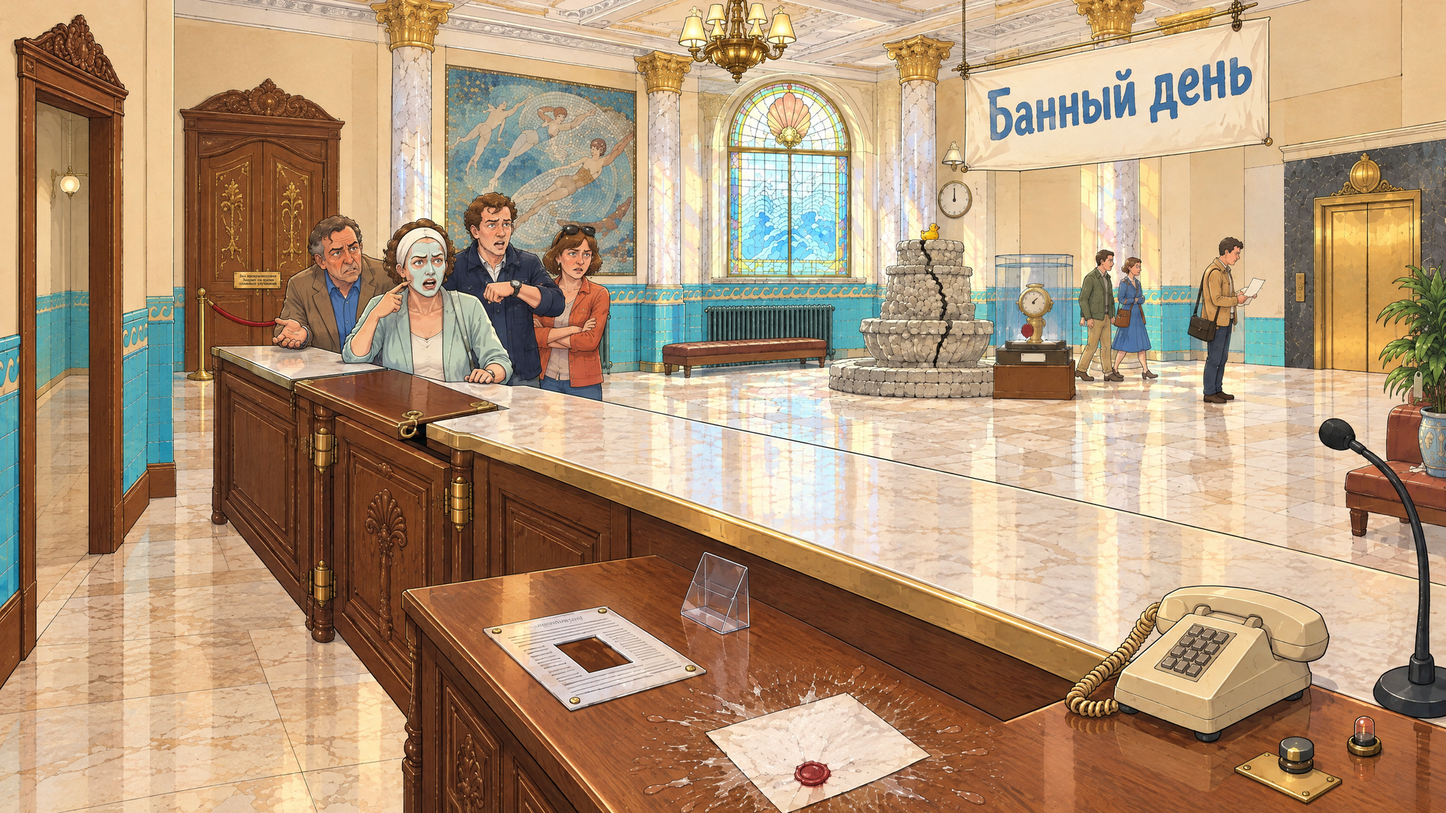
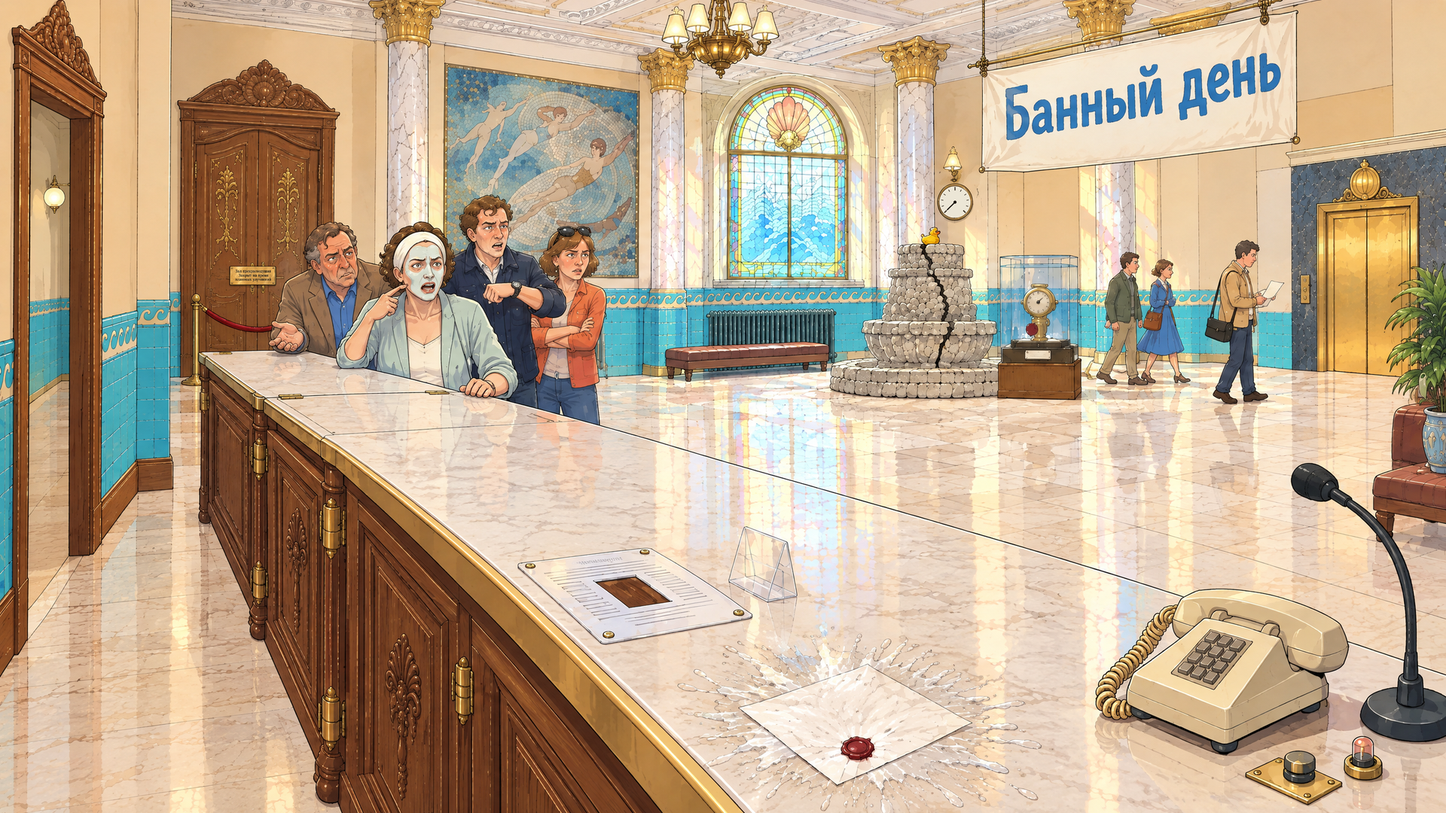
W2 с нуля: доска — вырезанный кусок столешницы (q4); табличка врезана, циферблат индикатора очищен от цифр; спека §2.2 — описание доски словами автора
Claude-Session: https://claude.ai/code/session_01Bbq6Feu1G5NepL2mZVzLSv

diff --git a/docs/BJ3_ASSET_SPEC.md b/docs/BJ3_ASSET_SPEC.md
@@ -146,7 +146,7 @@
 
 **Композиция.** Справа и по центру внизу — внутренняя сторона стойки: столешница, телефон, мокрый лучистый круг на столешнице и на нём лист уведомления с мокрой лучистой пломбой (без папки), пустая подставка для карты, регламент, привинченный к стойке (ламинат, прямоугольное окно вырезано — сквозь него видно дерево стойки), кнопка каскада с чистой табличкой и маленькой лампой (не горит), микрофон громкой связи на «гусиной шее», фасады двух ящиков без ручек (верхний — нажимной; нижний). За стойкой — вестибюль: пол «под мрамор», толпа гостей (обычная людность, живая и в разных направлениях — замечание автора 07.10.2026: «все спиной — неестественно»: трое-четверо стоят лицом к стойке и возмущаются — у стойки толпа жалующихся, Акт I; остальные идут в профиль, беседуют, читают; лица только на среднем плане; халатов и полотенец нет — банный день; гостья в косметической маске стоит лицом к стойке: светло-мятная глиняная маска с белой каймой у линии волос, широкий ободок — иначе читается как зелёная кожа; её реплика — «маску через двадцать минут смывать»), декоративный каскад на камнях (сух, на камнях одна резкая тёмная линия), над ним круглый индикатор насоса: циферблат без цифр, стрелка на нуле, рядом лампа (не горит); витрина экспоната у стены (стеклянная дверца без ручек, за ней латунный счётчик с лучистой пломбой; табличка на стойке чистая); огромный плакат над толпой; справа у северной стены — двери **служебного лифта** (он открывается прямо в вестибюль: тексты Акта I); **прямо вдали, в западной стене вестибюля, — парадные двустворчатые двери зала прекраснодушия** (план первого этажа `docs/assets/ground_floor_plan.png`), заперты, на них табличка «Зал прекраснодушия. Закрыт на время плановых улучшений» (генератор; решение автора 08.10.2026 по топологии: у публичного зала есть гостевой вход, но сегодня он заперт — поэтому гостей в W4 нет). Слева впереди, в западном конце служебной стороны рядом с откидной доской, — **одна открытая арка** в служебный коридор (решение автора 08.10.2026, по текстам Акта I: «Прачечная налево, зал прекраснодушия прямо»; «За стойкой — служебный коридор. На дверях надписи: „Прачечная“ и „Зал прекраснодушия“»): коридор уходит на запад; двери в нём — на боковых стенах (прачечная — на южной, служебная дверь зала — на северной) и в кадре W2 не читаются; надписи «Прачечная» и «Зал прекраснодушия» звучат только в подписи к кадру (тексты Акта I). Других дверей на служебной стороне нет. Зал и вестибюль — соседи через западную стену: парадные двери и служебный коридор ведут в один зал с одной стороны (замечание автора 08.10.2026: «два входа на противоположных концах здания — физически невозможно»). Пол служебной зоны и вестибюля — плитка «под мрамор», без мозаичной каймы (§1.3). Над толпой — плакат «Банный день» (генератор). Регламент — лист А4 в ламинате на четырёх шурупах, строчки в размытие, посередине вырезано прямоугольное окно до дерева (Акт III: пункт между подготовкой и пуском вырезан). Мокрый лучистый круг — вода, не кофе: глянцевые брызги-лучи, капли, подмокшая бумага уведомления с мокрой красной лучистой пломбой. Откидная доска стойки опущена.
 
-**Откидная доска — устройство** (замечание автора 07.10.2026: сверить с прототипом и функцией). Функция в игре — проход сквозь стойку из вестибюля на служебную сторону: тележка упирается, Изольда, не глядя, поднимает доску, тележка уезжает за стойку (Акт I, AS10; сегодня доску перекрывает толпа). Прототип — откидная секция барной/ресепшн-стойки (counter flap): кусок столешницы ~80 см на петлях, поднимается вверх и откидывается на соседнюю часть стойки; под ним — калитка, низкая распашная дверца до пола. Опущенная доска лежит вровень со столешницей, её выдают прямой шов и латунные петли сверху. Место — левый конец стойки, у служебных дверей.
+**Откидная доска — устройство** (замечание автора 07.10.2026: сверить с прототипом и функцией). Функция в игре — проход сквозь стойку из вестибюля на служебную сторону: тележка упирается, Изольда, не глядя, поднимает доску, тележка уезжает за стойку (Акт I, AS10; сегодня доску перекрывает толпа). Прототип — откидная секция барной/ресепшн-стойки (counter flap): кусок столешницы ~80 см на петлях, поднимается вверх и откидывается на соседнюю часть стойки; под ним — калитка, низкая распашная дверца до пола. **Как она выглядит (решение автора 08.10.2026):** «из поверхности стойки вырезали прямоугольный кусок, а потом посадили его обратно на петли». Тот же мрамор, те же прожилки и та же латунная кромка, что у всей столешницы, строго вровень; видны только две тонкие щели поперёк столешницы — ровно над краями калитки — и плоские врезные латунные петли вдоль **одной** щели (прототип — flush counter flap hinge, барная стойка). Другой цвет, рамка, кольцо, выступ — брак (три такие пробы 08.10.2026 отклонены). Место — западный конец стойки, у арки в служебный коридор (план первого этажа).
 
 **Схема стойки W2 — утверждена автором 07.10.2026** (`docs/assets/w2_counter_layout.png`; замечание автора: «стойка выглядит физически абсурдно»): прямая стойка в два уровня — рабочий стол сотрудника с нашей стороны, высокий бортик ~110 см со стороны гостей; камера за стойкой у её правого конца, смотрит влево; стойка уходит в перспективе влево и упирается в стену; последние ~80 см у стены — откидная доска (шов, две латунные петли) и калитка под ней; на стене служебной стороны слева — одна арка в служебный коридор (решение 08.10.2026; на самой схеме ещё две двери — устарело); толпа — перед стойкой, у прохода. Генерировать W2, W2 из-под юбки и их состояния строго по этой схеме.
 
